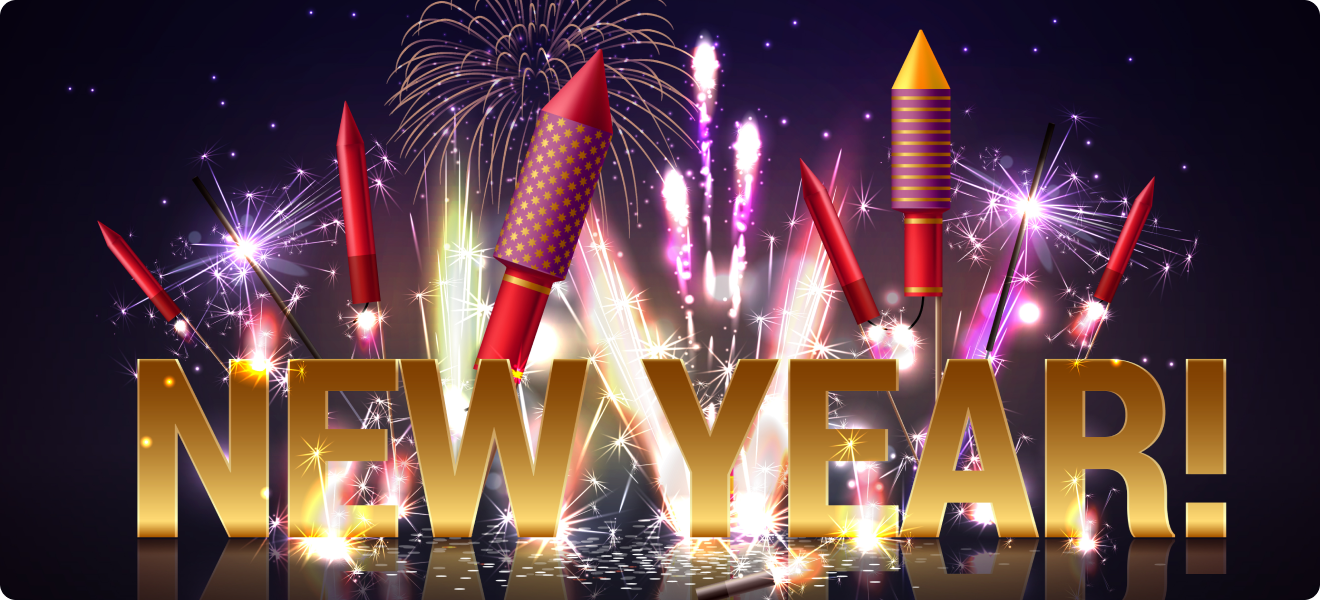
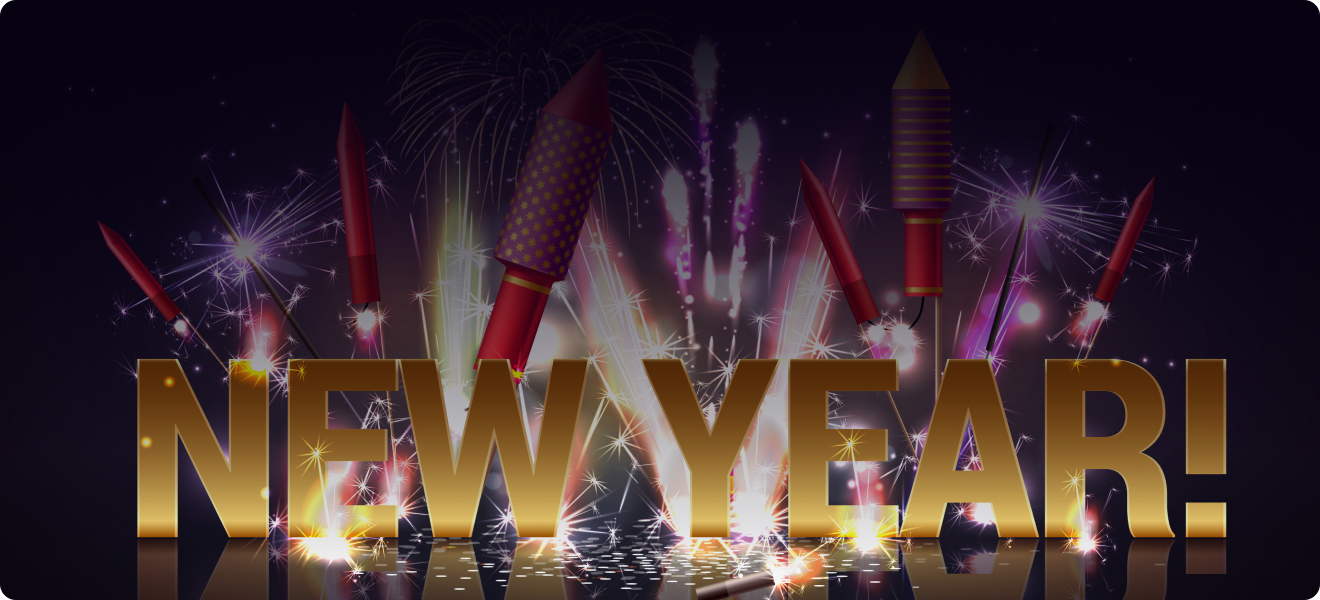
Header added

diff --git a/styles/style.css b/styles/style.css
@@ -1,0 +1,46 @@
+@import url("https://fonts.googleapis.com/css2?family=Inter:wght@100..900&family=Merriweather:ital,wght@0,300;0,400;0,700;0,900;1,300;1,400;1,700;1,900&display=swap");
+/* common styles */
+* {
+  margin: 0;
+  padding: 0;
+}
+main {
+  width: 82%;
+  max-width: 1320px;
+  margin: 0 auto;
+}
+/* common styles */
+header {
+  background-image: url("../resources/Banner\ Image.png");
+  background-position: center center;
+  background-repeat: no-repeat;
+  background-size: cover;
+  height: 600px;
+  margin-top: 50px;
+  margin-bottom: 120px;
+  border-radius: 16px;
+  display: flex;
+  justify-content: center;
+  align-items: center;
+}
+.banner {
+  max-width: 632px;
+}
+.banner-decsription {
+  color: #fff;
+  text-align: center;
+  font-family: Merriweather;
+  font-size: 32px;
+  font-style: normal;
+  font-weight: 400;
+  line-height: normal;
+}
+.banner-title {
+  color: #fff;
+  text-align: center;
+  font-family: Merriweather;
+  font-size: 72px;
+  font-style: normal;
+  font-weight: 900;
+  /* line-height: 95px; 131.944% */
+}

diff --git a/index.html b/index.html
@@ -4,8 +4,16 @@
     <meta charset="UTF-8">
     <meta name="viewport" content="width=device-width, initial-scale=1.0">
     <title>New Year New Mission</title>
+    <link rel="stylesheet" href="./styles/style.css">
 </head>
 <body>
-    <main></main>
+    <main>
+        <header>
+            <div class="banner">
+                <p class="banner-decsription">Happy New Year</p>
+                <h1 class="banner-title">New Year Party Celebration</h1>
+            </div>
+        </header>
+    </main>
 </body>
 </html>
